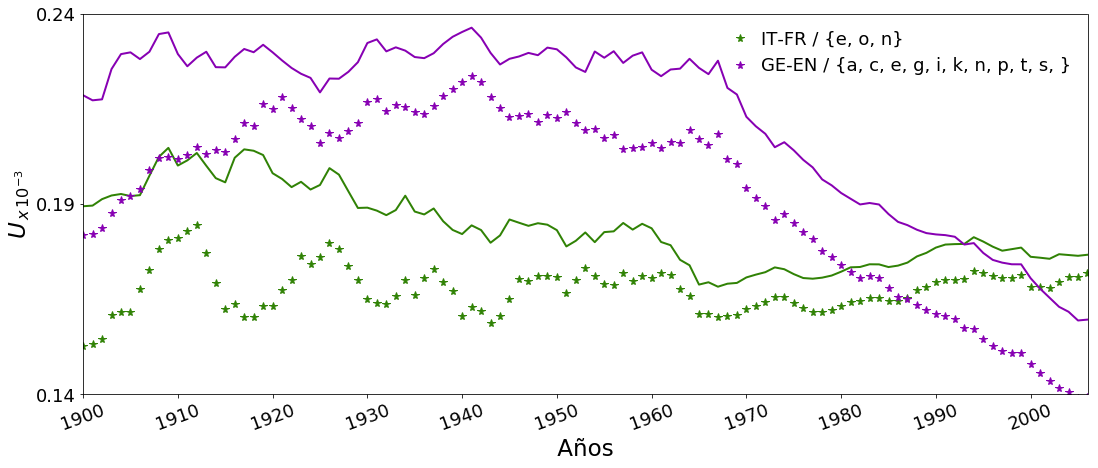
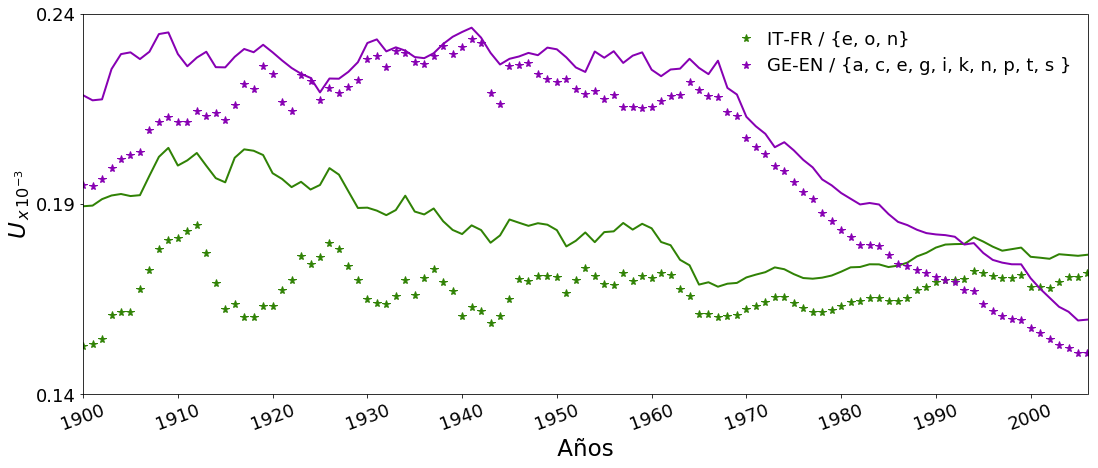
cap5_correccion

diff --git a/omision.tex b/omision.tex
@@ -1,10 +1,15 @@
 \chapter{Eliminación de palabras}
+%El proceso de relacionar las palabras migrantes con campos semánticos y eventos históricos que justifiquen su aparición, permitió establecer un forma para cuantificar la influencia entre idiomas llamada uso. Todo este método se facilitó por la eliminación de las palabras funcionales, dejando sólo palabras de contenido, pero ¿cómo se modificaría el uso entre idiomas si se eliminaran otro tipo de palabras, sin importar si estás son de contenido?
 
-\jmnote{Mejorar el primer parrafo con la discusion de los linguistas os errores}
-El proceso de relacionar las palabras migrantes con campos semánticos y eventos históricos que justifiquen su aparición, permitió establecer un forma para cuantificar la influencia entre idiomas llamada uso. Todo este método se facilitó por la eliminación de las palabras funcionales, dejando sólo palabras de contenido, pero ¿cómo se modificaría el uso entre idiomas si se eliminaran otro tipo de palabras, sin importar si estás son de contenido?
+%Para responder esta pregunta, se ha elaborado un nuevo algoritmo que reduce el conjunto de las palabras migrantes, y  obtiene nuevos valores para el uso entre idiomas.  Elegidos una pareja de idioma origen \textit{A} e idioma receptor \textit{B}, el proceso es el siguiente. 
 
-Para responder esta pregunta, se ha elaborado un nuevo algoritmo que reduce el conjunto de las palabras migrantes, y  obtiene nuevos valores para el uso entre idiomas.  Elegidos una pareja de idioma origen \textit{A} e idioma receptor \textit{B}, el proceso es el siguiente. 
+En los métodos para cuantificar la influencia de un idioma en otro, ya sea a partir de las palabras nuevas o del uso que estas tienen en los diferentes receptores, se ha tratado de justificar los resultados con las palabras que intervienen en cada proceso. Sin embargo, dentro de las palabras migrantes, se encontraron errores al designar su idioma origen, errores que por el momento, no se sabe ni como eliminarlos ni como afectan a los resultados. 
 
+El primer criterio que se hizo para minimizar errores y obtener mejores resultados, fue al eliminar las palabras funcionales, dejando sólo las palabras de contenido. Este criterio disminuyó la cantidad de palabras migrantes, por lo que es comprensible pensar que tras una limpieza en los resultados, la cantidad de ellos se reducirá. 
+
+Con la idea anterior, al no tener otro tipo de criterios para limpiar los datos, se pueden simular reglas que reduzcan la cantidad de palabras migrantes. Una vez hecha la reducción, se puede obtener el uso de un idioma en otro para compararlo con los resultados previos. Se decidió comparar con el uso y no con las palabras nuevas, ya que en cada año hay más prestamos acumulados que préstamos nuevos (en algunos años no hay palabras nuevas), además la intención de las posibles reglas, es reducir el tamaño de los conjuntos no desaparecerlos.
+
+El proceso para simular reglas y hacer las eliminación es el siguiente. 
 
 \begin{enumerate}
 	
@@ -12,46 +17,49 @@ Para responder esta pregunta, se ha elaborado un nuevo algoritmo que reduce el c
 	
 	\item Se escogen de forma aleatoria un grupo de letras (desde una hasta diez), y se descartan del conjunto original a aquellas  palabras cuya primer letra sea alguna de las elegidas. El nuevo corpus se denotará como \textbf{conjunto reducido}.
 	
-	\item Se establece un corpus  designado como \textbf{conjunto residuo}, conformado por todas las palabras eliminadas del conjunto original.  La unión del reducido y el residuo es el original. 
+	%\item Se designa un tercer corpus como \textbf{conjunto residuo}, conformado por todas las palabras eliminadas del conjunto original.  La unión del reducido con el residuo es el original. 
 	
-	\item En los tres conjuntos se emplea la ecuación \ref{ec.fuso}, para encontrar el uso de \textit{A} en \textit{B}. 	
+	\item En los dos conjuntos se emplea la ecuación \ref{ec.fuso} para encontrar el uso de \textit{A} en \textit{B}.
+	
 	
 \end{enumerate}
 
-La intención de este método  no es eliminar a todas las palabras migrantes, sino el reducirlas  para  comparar el uso entre el conjunto original y el reducido.  Para determinar que tanto ha cambiado el uso en los dos conjuntos, se utilizará el coeficiente de determinación $R^{2}$. 
+%La intención de este método  no es eliminar a todas las palabras migrantes, sino el reducirlas  para  comparar el uso entre el conjunto original y el reducido.  Para determinar que tanto ha cambiado el uso en los dos conjuntos, se utilizará el coeficiente de determinación $R^{2}$. 
 
-El primer criterio importante será al tomar el uso en el conjunto original como verdadero (ya que con el se establecieron los resultados del capítulo anterior),  donde sus valores para un tiempo $t$ se expresan como $O_{t}$. Si en el conjunto reducido  $v_{t}$ es el uso para el mismo $t$, mientras que  $\bar{v}$ es el promedio de todos los valores de uso, entonces  el coeficiente de determinación queda definido como:
+%El primer criterio será al tomar el uso en el conjunto original como verdadero (ya que con el se establecieron los resultados del capítulo anterior), donde sus valores para un tiempo $t$ se expresan como $O_{t}$. Si en el conjunto reducido   es el uso para el mismo $t$, mientras que  $\bar{v}$ es el promedio de todos los valores de uso, entonces  el coeficiente de determinación queda definido como:
 
+Si el uso en el conjunto original se toma como verdadero (ya que con el se obtuvieron los resultados del capítulo anterior), una forma de determinar que tanto cambió el uso en el conjunto reducido, es a partir del coeficiente de determinación $R^{2}$. 
+
+%Si para un año $t$ dentro de un intervalo de tiempo $\Delta t$,  se detonan como $O_{t}$ al uso en el conjunto original y $v_{t}$ al uso en el al uso en el conjunto reducido,  mientras que $\bar{v}$ es el promedio de todos los $v_{t}$ en el intervalo, entonces el coeficiente de determinación se expresa como: 
+Para un año $t$ dentro de un intervalo de tiempo $\Delta t$,  el uso en el  conjunto original y el uso en el conjunto reducido se detonan como $O_{t}$ y $v_{t}$ respectivamente,  mientras que $\bar{v}$ es el promedio de todos los $v_{t}$ en el intervalo, entonces el coeficiente de determinación queda definido como: 
 \begin{equation}
 \label{ec.dif_uso}
 R^{2} = 1 - \sum_{t} \frac{ \left( v_{t}- O_{t} \right)^{2}  }{ \left( v_{t} - \bar{v} \right)^{2} }.
 \end{equation}
-
-Se empleará el concepto \textbf{conservación del uso} para aquellos idiomas cuyo uso no cambie en un intervalo de tiempo $\Delta t$. La conservación es favorable si $R^{2}$ es próximo a 1. 
+Se empleará el concepto \textbf{conservación del uso} para aquellos idiomas cuyo uso no cambie en un intervalo de tiempo. La conservación es favorable si $R^{2}$ es próximo a 1. 
 %Si la conservación no es favorable, las palabras eliminadas son las más relevantes para las migraciones de \textit{A} en \textit{B}.
 
 \section{Características de las eliminaciones}
 
-El procedimiento de eliminar palabras, obteniendo el uso y el coeficiente de determinación, se realizó cien mil veces, cinco mil por cada pareja de idiomas.
 
-Tras las eliminaciones, se graficaron algunos casos obtenidos, representando con un trazo continuo al uso en el conjunto original, mientras que el uso en el conjunto reducido es una serie de puntos.
+El procedimiento de eliminar palabras, obteniendo el uso y el coeficiente de determinación, se realizó cien mil veces, cinco mil por cada pareja de idiomas. Tras las eliminaciones, se graficaron algunos casos obtenidos, representando con un trazo continuo al uso en el conjunto original, mientras que el uso en el conjunto reducido es una serie de puntos; en cada grafica se especifican las letra con las que se hicieron la eliminaciones. 
 
-Despumes de analizar las graficas de cada pareja de idiomas, se concluyó  que el uso en ambos conjuntos, cumple alguna de las siguientes características.
+Después de analizar las graficas de cada pareja de idiomas, se concluyó  que el uso en ambos conjuntos, cumple alguna de las siguientes características.
 
 
 \begin{itemize}
 	
 	\item Valores iguales. Punto a punto, el uso en ambos conjuntos es el mismo. En este caso, el uso se conserva ya que las graficas son indistinguibles (figura~\ref{fig.OM1}).
 	
-	\item Diferencia de alturas. Punto a punto, existe una diferencia casi constante entre ambos valores de uso. En este caso, el uso también se conserva, ya que las graficas son iguales sólo que están desfasadas (figura~\ref{fig.OM2}).  
+	\item Diferencia de altura. En la mayor parte de los puntos, existe una diferencia casi constante entre ambos valores de uso. En este caso, el uso también se conserva, ya que las graficas son iguales sólo que están desplazadas (figura~\ref{fig.OM2}).  
 	
-	\item Alteraciones por periodos. El uso en ambos conjuntos es completamente diferentes en algunos periodos de tiempo. En este caso, el uso no se conserva, ya que la graficas son diferentes (figura~\ref{fig.OM3}).
+	\item Alteraciones por periodos. El uso de ambos conjuntos,  en algún intervalo de tiempo, es completamente diferente. En este caso, el uso no se conserva, ya que la graficas son diferentes (figura~\ref{fig.OM3}).
 
 \end{itemize}
 
 
 
-%Para ilustrar las caracterizaras mencionadas, se exponen algunas graficas obtenidas, representado con un trazo continuo al uso del conjunto original, mientras que el uso en el conjunto reducido  es una serie de puntos.   Ya que los valores en el conjunto residuo son muy pequeños, se opto por no graficarlos, para no saturar la información. 
+%Para ilustrar las caracterizaras mencionadas, se exponen algunas graficas obtenidas, representado con un trazo continuo al uso del conjunto original, mientras que el uso en el conjunto reducido  es una serie de puntos.  Ya que los valores en el conjunto residuo son muy pequeños, se opto por no graficarlos, para no saturar la información. 
 
 %En cada grafica se especifican los idiomas que intervienen, así como el conjunto de letras con las cuales se hicieron las eliminaciones. 
 
@@ -68,27 +76,28 @@ Despumes de analizar las graficas de cada pareja de idiomas, se concluyó  que e
 \begin{figure}[h!]
 	\centering
 	\includegraphics[scale=.375]{OM2.png}
-	\caption{Eliminación de palabras en el alemán y en el italiano. El uso se conserva en ambas parejas de idiomas durante todo el siglo XX, existiendo una diferencia de alturas entre el uso original y el uso reducido.  Al despreciar la diferencia de alturas, $R^{2}$=0.86 para el alemán-inglés y $R^{2}$=0.82 para el italiano-francés.}
+	\caption{Eliminación de palabras en el alemán y en el italiano. El uso se conserva en ambas parejas de idiomas durante todo el siglo XX, existiendo una diferencia de altura entre el uso original y el uso reducido.  Al despreciar la diferencia, $R^{2}$=0.86 para el alemán-inglés y $R^{2}$=0.82 para el italiano-francés.}
 	\label{fig.OM2}
 \end{figure}
-
-
 
 \begin{figure}[h!]
 	\centering
 	\includegraphics[scale=.375]{OM3.png}
-	\caption{Eliminación de palabras en el español. Entre 1955 y 1985 el uso del español-alemán no se conservo, correspondiendo un valor de $R^{2}$=0.36 entre esos años.}
+	\caption{Eliminación de palabras en el español. Entre 1955 y 1985 el uso del español-alemán no se conservo, correspondiendo un valor de $R^{2}$=0.16 entre esos años.}
 	\label{fig.OM3}
 \end{figure}
 
 
-La conservación del uso y sus características no siempre serán la mismas tras una eliminación con diferentes letras, sin embargo, es posible decir de manera general si el uso de un idioma se conserva. 
+La conservación del uso y sus características no siempre serán la mismas tras una eliminación con diferentes letras, sin embargo, es posible decir 
+con los datos de las cien mil eliminaciones, si el uso se conserva.  Para ello, se agruparon y promediaron por cada idioma origen  los valores del coeficiente de determinación, obteniendo un $\left \langle R^{2}  \right \rangle$  promedio con el cual decir de manera general, si el uso del idioma origen se conserva. 
 
-Para ello se agruparon y promediaron por cada pareja de idiomas y por cada idioma origen los valores del coeficiente de determinación, obtenidos tras las cien mil eliminaciones anteriores. Con el coeficiente de determinación promedio de cada idioma origen $\left \langle R^{2}  \right \rangle$ será posible decir si su uso se conserva.
+La tabla~\ref{tab.conservacion} muestra por cada idioma origen,  el valor de $\left \langle R^{2}  \right \rangle$ correspondiente, así como  en cuales idiomas receptores el promedio de $R^{2}$ fue mayor, y en cuales el promedio $R^{2}$ fue menor. De esta tabla se puede ver que el alemán es el idioma con los valores más bajos de $R^{2}$, donde la menor conservación se dio con el español. Los demás idiomas tienen valores aceptables con los cuales decir que su uso se conserva a pesar de las eliminaciones. 
 
-La tabla~\ref{tab.conservacion} muestra por cada idioma origen,  el valor  $\left \langle R^{2}  \right \rangle$ correspondiente, así como  en cuales idiomas receptores la conservación fue mayor $R^{2}_{max}$ y  en cuales menor $R^{2}_{min}$.  
+Como la intención de las eliminaciones es simular reglas que limpien los datos, se puede decir que los préstamos con más errores son los del alemán en el español, ya que si se hubiese tal criterio, los resultados de esta pareja serian los más afectados. En los demás idiomas no habría un cambio significativo. 
 
-De esta tabla se puede ver que la conservación del uso es menor, en las combinaciones donde el alemán este presente, ya sea como idioma origen o como idioma receptor. No obstante, en los demás idiomas la conservación del uso fue favorable, por lo que se puede decir que los idiomas conservan su uso, sin importar  cuales sean las palabras que conformen a las migraciones. 
+
+ 
+%De esta tabla se puede ver que la conservación del uso es menor, en las combinaciones donde el alemán este presente, ya sea como idioma origen o como idioma receptor. No obstante, en los demás idiomas la conservación del uso fue favorable, por lo que se puede decir que los idiomas conservan su uso, sin importar  cuales sean las palabras que conformen a las migraciones. 
 
 
  
@@ -116,9 +125,20 @@ De esta tabla se puede ver que la conservación del uso es menor, en las combina
 
 \section{Resultados generales}
 
-El realizar diferentes elecciones para reducir la cantidad de palabras migrantes, mostró la propiedad del uso entre idiomas es la misma, sin importar cuales elementos conforman el conjunto.
+El realizar diferentes elecciones para reducir la cantidad de palabras migrantes, mostró que los posibles errores en la clasificación de los datos, no modifican (en la mayoría de los casos) los resultados obtenidos. 
 
-Individualmente. los valores de uso de una única palabra pueden ser distintos a los de otra palabra, sin embargo al tratar a todo el conjunto, el uso se comporta de la misma manera, sin importar los valores individuales de los elementos que lo conforman. 
+También se destaca al uso de un idioma en otro, como una propiedad común para cada pareja de idiomas, donde no tiene relevancia la cantidad  de palabras que conformen los préstamos acumulados,  en conjunto, todas ellas se comportarán de la misma manera. 
 
-A pesar de haber errores en el algoritmo que clasifica tanto a los idiomas orígenes, como a sus  palabras migrantes, la conservacion del uso puede justificar que no importa si se eliminan las palabras mal clasificadas, en términos numéricos, el uso de un idioma otro va a ser el mismo.  
+
+
+%El tratar a las migraciones de palabras como un conjunto, donde no tiene tanta relevancia las palabras que lo conforman, muestra propiedades estadísticas comunes que cumplen las parejas de idiomas. Por el momento  
+
+   
+
+
+
+
+%Individualmente. los valores de uso de una única palabra pueden ser distintos a los de otra palabra, sin embargo al tratar a todo el conjunto, el uso se comporta de la misma manera, sin importar los valores individuales de los elementos que lo conforman. 
+
+%A pesar de haber errores en el algoritmo que clasifica tanto a los idiomas orígenes, como a sus  palabras migrantes, la conservacion del uso puede justificar que no importa si se eliminan las palabras mal clasificadas, en términos numéricos, el uso de un idioma otro va a ser el mismo.  
 

diff --git a/acumuladas.tex b/acumuladas.tex
@@ -67,7 +67,7 @@ cantidad, se realizaron los siguientes pasos.
 
 Como en el uso de un idioma en otro intervienen los préstamos acumulados, se dirá que un préstamo aumenta su influencia, si su rango disminuye (aumenta su frecuencia) dentro de un intervalo de tiempo $\Delta t$ donde el uso aumenta. En algunos casos, los préstamos  que aumentan su influencia serán parte de un campo semántico.
 
-Finalmente, para cuantificar el cambio del uso $\Delta U$ dentro de un  intervalo de tiempo $\Delta t$, se  empleará el término \textbf{razón}, obteniendo este valor al dividir $\Delta U$ entre $\Delta t$. 
+Finalmente, para cuantificar el cambio del uso $\Delta U$ dentro de un  intervalo de tiempo $\Delta t$, se  empleará el término \textbf{razón de palabras por año}  (ppa), obteniendo este valor al dividir $\Delta U$ entre $\Delta t$. 
 
 
 
@@ -165,7 +165,7 @@ No obstante, el que un idioma tenga más préstamos acumulados en otro, no signi
 \begin{figure}[h!]
 	\centering
 	\includegraphics[scale=.33]{UO1_EN.png}
-	\caption{El uso del inglés en los demás idiomas. El mayor aumento en el uso del inglés se dio en el alemán, a razón de 0.0054 palabras por año (ppa) entre 1990 y 2003, después en el francés con 0.0018~ppa entre 1945 y 2009, y en el español con 0.0012~ppa entre 1950 y 2000. El uso del inglés en el el italiano, disminuyó a razón de -0.0013~ppa entre 1910 y 1930.}
+	\caption{El uso del inglés en los demás idiomas. El mayor aumento en el uso del inglés se dio en el alemán, a razón de 0.0054~ppa  entre 1990 y 2003, después en el francés con 0.0018~ppa entre 1945 y 2009, y en el español con 0.0012~ppa entre 1950 y 2000. El uso del inglés en el el italiano, disminuyó a razón de -0.0013~ppa entre 1910 y 1930.}
 	\label{fig.UO_EN}
 \end{figure} 
 
@@ -335,7 +335,7 @@ De la figura~\ref{fig.UR_SP} se puede ver que el inglés y el francés, son los 
 %el italiano, tenga el doble de préstamos acumulados en el español, que el inglés y el francés juntos, de acuerdo a la tabla~\ref{tab.cantidad_acumulados}.  
 
 
-Los préstamos de los demás idiomas en el español, son de la economía y tecnología por parte del inglés (página~\pageref{EN-D}), la Revolución Francesa y la religión por parte del francés (página~\pageref{FR-D}), apellidos de personajes germano parlantes que destacaron en algún área académica  por parte del alemán (página~\pageref{GE-D}), y la guerra, la política y la religión por parte del italiano(página~\pageref{IT-D}).  
+Los préstamos de los demás idiomas en el español, son de la economía y tecnología por parte del inglés (página~\pageref{EN-D}), la Revolución Francesa y la religión por parte del francés (página~\pageref{FR-D}), apellidos de personajes germano parlantes que destacaron en algún área académica  por parte del alemán (página~\pageref{GE-D}), y la guerra, la política y la religión por parte del italiano (página~\pageref{IT-D}).  
 
 
 %En las discusiones anteriores se han mencionado,  los préstamos que modifican su influencia en el español, disminuyendo los del alemán  en el campo semántico de la guerra (página~\pageref{GE-D}), y aumentando los del inglés en la economía y la tecnología (página~\pageref{EN-D}),  los del francés en la revolución francesa y en la religión (página~\pageref{FR-D}),  y los del italiano en la religión, la política y la guerra (página~\pageref{IT-D}).
